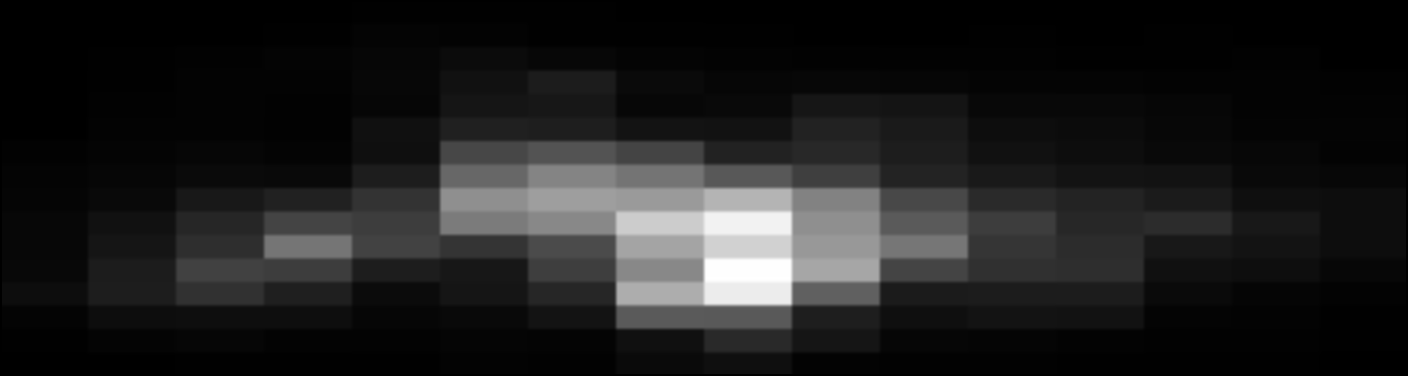
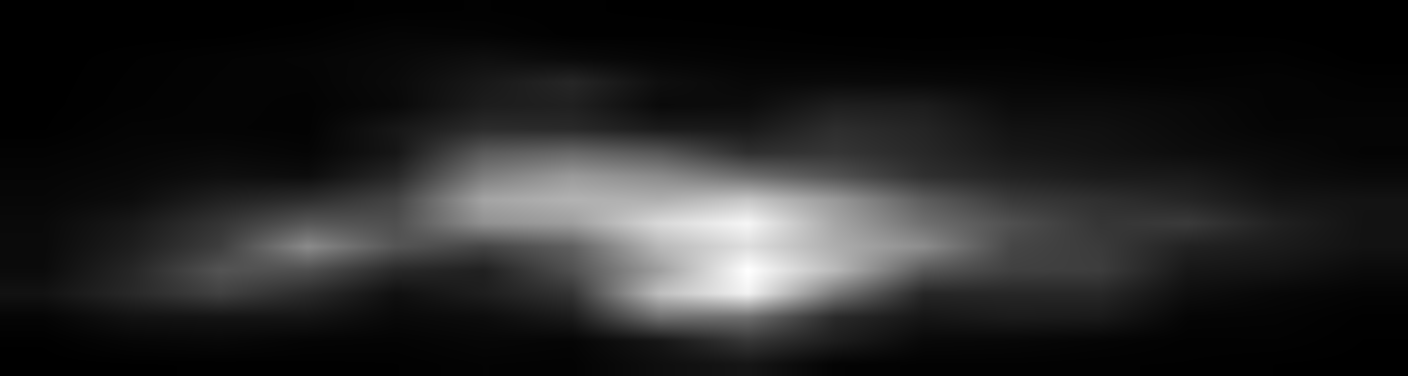
- smoothed pred files - updated generation of pred files - flag to skip already created pred files - count of input, pred, skipped files - logging

diff --git a/gaze_prediction.py b/gaze_prediction.py
@@ -7,6 +7,7 @@ import os
 import argparse
 import time
 import math
+import logging
 
 import torch
 from torch.utils.data import DataLoader
@@ -21,8 +22,8 @@ from kitti360 import Kitti360
 
 
 parser = argparse.ArgumentParser(description='Feature Test')
-parser.add_argument('--data', default='/home/datasets/KITTI-360-low/data_2d_raw/2013_05_28_drive_0009_sync/image_00/data_rect/', metavar='DIR', help='path to dataset')
-parser.add_argument('--features', default='features/data_2d_raw/2013_05_28_drive_0009_sync/image_00/data_rect/', metavar='DIR', help='path to extracted features')
+parser.add_argument('--data', default='/home/datasets/KITTI-360-low/data_2d_raw/2013_05_28_drive_0000_sync/image_00/data_rect/', metavar='DIR', help='path to dataset')
+parser.add_argument('--features', default='features/data_2d_raw/2013_05_28_drive_0000_sync/image_00/data_rect/', metavar='DIR', help='path to extracted features')
 parser.add_argument('--best', default='grid1616_model_best.pth.tar', type=str, metavar='PATH', help='path to best checkpoint (default: none)')
 parser.add_argument('--workers', default=4, type=int, metavar='N',
                     help='number of data loading workers (default: 4)')
@@ -39,104 +40,154 @@ parser.add_argument('--gridheight', default=16, type=int, metavar='N',
                     help='number of rows in grid')
 parser.add_argument('--gridwidth', default=16, type=int, metavar='N',
                     help='number of columns in grid ')
-parser.add_argument('--yolo5bb', default='runs/detect/data_2d_raw/2013_05_28_drive_0009_sync/image_00/data_rect/labels', metavar='DIR', help='path to folder of yolo5 bounding box txt files')
-parser.add_argument('--visualizations', default='outputs/2d_heatmaps/KITTI-360-low/data_2d_raw/2013_05_28_drive_0009_sync/image_00/data_rect/', metavar='DIR', help='path to folder for visalization of predicted gaze maps and target')
+parser.add_argument('--yolo5bb', default='runs/detect/data_2d_raw/2013_05_28_drive_0000_sync/image_00/data_rect/labels', metavar='DIR', help='path to folder of yolo5 bounding box txt files')
+parser.add_argument('--visualizations', default='outputs/2d_heatmaps/KITTI-360-low/data_2d_raw/2013_05_28_drive_0000_sync/image_00/data_rect/', metavar='DIR', help='path to folder for visalization of predicted gaze maps and target')
 parser.add_argument('--threshhold', default=0.5, type=float, metavar='N', help='threshold for object-level evaluation')
 parser.add_argument('--lstm', default=False, action='store_true', help='use lstm module')
 parser.add_argument('--convlstm', default=False, action='store_true', help='use convlstm module')
 parser.add_argument('--sequence', default=6, type=int, metavar='N', help='sequence length for lstm module')
+parser.add_argument('--skip-existing', default=True, action='store_true',
+                    help='skip visualization if pred file already exists')
+
 
 device = torch.device("cuda" if torch.cuda.is_available() else "cpu")
 
+# Initialize logger instance for this file
+logger = logging.getLogger(__name__)
+
+
 def main():
+    logger.info("=== STARTING GAZE EVALUATION LOG ===")
+
     args = parser.parse_args()
 
-    if torch.cuda.is_available():
-        # Fallback to args.gpu if specified, otherwise default to device 0
-        gpu_id = args.gpu if 'args' in locals() and hasattr(args, 'gpu') else 0
-        device = torch.device(f"cuda:{gpu_id}")
-    else:
-        device = torch.device("cpu")
+    try:
+        dim = args.gridwidth * args.gridheight
+        th = 1/dim
 
-    dim = args.gridwidth * args.gridheight
-    th = 1/dim
+        if args.gpu is not None:
+            logger.info("Use GPU: {} for testing".format(args.gpu))
 
-    if args.gpu is not None:
-        print("Use GPU: {} for testing".format(args.gpu))
+        model = network.Net(args.gridheight, args.gridwidth)
 
-    model = network.Net(args.gridheight, args.gridwidth)
+        if args.lstm:
+            model = network.LstmNet(args.gridheight, args.gridwidth)
 
-    if args.lstm:
-        model = network.LstmNet(args.gridheight, args.gridwidth)
+        if args.convlstm:
+            model = network.ConvLSTMNet(args.gridheight, args.gridwidth, args.sequence)
 
-    if args.convlstm:
-        model = network.ConvLSTMNet(args.gridheight, args.gridwidth, args.sequence)
+        if args.gpu is not None:
+            torch.cuda.set_device(args.gpu)
+            model.cuda(args.gpu)
+        
+        testdir = args.data
+        test_dataset = Kitti360("test", testdir, args.features,
+                                th, (args.lstm or args.convlstm), args.sequence)
+        test_loader = torch.utils.data.DataLoader(
+            test_dataset,
+            batch_size=args.batch_size, shuffle=False,
+            num_workers=args.workers, pin_memory=True)
 
-    if args.gpu is not None:
-        torch.cuda.set_device(args.gpu)
-        model.cuda(args.gpu)
+        if args.best:
+            if os.path.isfile(args.best):
+                logger.info("=> loading checkpoint '{}'".format(args.best))
+                checkpoint = torch.load(args.best)
+                args.start_epoch = checkpoint['epoch']
+                model.load_state_dict(checkpoint['state_dict'], False)
+                logger.info("=> loaded checkpoint '{}' (epoch {})"
+                    .format(args.best, checkpoint['epoch']))
+            else:
+                logger.warning("=> no checkpoint found at '{}'".format(args.best))
+
+        test(test_loader, model, args)
+    except Exception as e:
+        logger.exception(f"Unhandled exception in main execution: {e}")
+    finally:
+        # Ensure all handlers flush log messages to the text file before exiting
+        for handler in logging.getLogger().handlers:
+            handler.flush()
     
-    testdir = args.data
-    test_dataset = Kitti360("test", testdir, args.features,
-                             th, (args.lstm or args.convlstm), args.sequence)
-    test_loader = torch.utils.data.DataLoader(
-        test_dataset,
-        batch_size=args.batch_size, shuffle=False,
-        num_workers=args.workers, pin_memory=True)
-
-    if args.best:
-        if os.path.isfile(args.best):
-            print("=> loading checkpoint '{}'".format(args.best))
-            checkpoint = torch.load(args.best)
-            args.start_epoch = checkpoint['epoch']
-            model.load_state_dict(checkpoint['state_dict'], False)
-            print("=> loaded checkpoint '{}' (epoch {})"
-                  .format(args.best, checkpoint['epoch']))
-        else:
-            print("=> no checkpoint found at '{}'".format(args.best))
-
-    test(test_loader, model, args)
-
 
 def test(test_loader, model, args):
     batch_time = AverageMeter()
 
+    # Configure logger to output both to console and a log file
+    log_file_path = os.path.join(args.visualizations, "execution_log.txt")
+    os.makedirs(args.visualizations, exist_ok=True)
+
+    # Single, clean logging setup
+    logging.basicConfig(
+        level=logging.INFO,
+        format='%(asctime)s [%(levelname)s] %(message)s',
+        handlers=[
+            logging.FileHandler(log_file_path, mode='a'),
+            logging.StreamHandler()
+        ],
+        force=True  # Overrides any existing logger setups from PyTorch/Torchvision
+    )
+
+    logger = logging.getLogger(__name__)
+
     model.eval()
-
-    all_count = 0
-
-    hm_max_values = []
 
     i = 0
 
-    heightfactor = 376 // args.gridheight
-    widthfactor = 1408 // args.gridwidth
-
     smoothing = GaussianSmoothing(1, 5, 1).to(device)
+
+    total_input_images = 0
+    total_saved_preds = 0
 
     with torch.no_grad():
         end = time.time()
         for i, (input, img_names) in enumerate(test_loader):
+
+            # Track batch input count
+            batch_input_count = len(img_names)
+            total_input_images += batch_input_count
+
+            if args.skip_existing:
+                # Filter out images that already have pred files
+                new_input = []
+                new_img_names = []
+
+                for j, img_name in enumerate(img_names):
+                    pred_path = os.path.join(args.visualizations, f"{img_name}_pred.png")
+                    if os.path.exists(pred_path):
+                        logger.info(f"[SKIP] {img_name} already visualized")
+                    else:
+                        new_input.append(input[j])
+                        new_img_names.append(img_name)
+
+                # If all images in this batch are already done → skip entire batch
+                if len(new_input) == 0:
+                    continue
+
+                # Rebuild batch
+                input = torch.stack(new_input)
+                img_names = new_img_names
+            
             if args.gpu is not None:
                 input = input.cuda(args.gpu, non_blocking=True)
 
             # compute output
             output = model(input)
-
             output = torch.sigmoid(output)
 
-            heatmap = grid2heatmap(output, [heightfactor, widthfactor], [args.gridheight, args.gridwidth])
+            # Reshape 1D grid directly to 2D low-res feature map (e.g., 16x16)
+            heatmap = output.view(-1, 1, args.gridheight, args.gridwidth)
+
+            # Smoothly upsample directly to target KITTI-360 resolution
             heatmap = F.interpolate(heatmap, size=[376, 1408], mode='bilinear', align_corners=False)
+
+            # Smooth borders gracefully without hard constant padding
             heatmap = smoothing(heatmap)
-            heatmap = F.pad(heatmap, (2, 2, 2, 2), mode='constant')
-            heatmap = heatmap.view(heatmap.size(0), -1)
-            heatmap = F.softmax(heatmap, dim=1)
 
-            # normalize
-            heatmap -= heatmap.min(1, keepdim=True)[0]
-            heatmap /= heatmap.max(1, keepdim=True)[0]
+            # Min-Max Normalization safely avoiding division by zero
+            min_v = heatmap.amin(dim=(1, 2, 3), keepdim=True)
+            max_v = heatmap.amax(dim=(1, 2, 3), keepdim=True)
+            heatmap = (heatmap - min_v) / (max_v - min_v + 1e-8)
 
-            heatmap = heatmap.view(-1, 1, 376, 1408)
+            batch_saved_count = 0
 
             for j in range(heatmap.size(0)):
                 img_name = img_names[j]
@@ -149,87 +200,35 @@ def test(test_loader, model, args):
                 if os.path.exists(filename):
                     with open(filename) as f:
 
-                        for linestring in f:
-                            all_count += 1
+                        if heatmap_img is None or heatmap_img.numel() == 0:
+                            logger.warning(f"[WARN] Empty heatmap for {filename}")
 
-                            line = linestring.split()
-
-                            width = float(line[3])
-                            height = float(line[4])
-                            x_center = float(line[1])
-                            y_center = float(line[2])
-
-                            x_min, x_max, y_min, y_max = bb_mapping(x_center, y_center, width, height)
-
-                            # find maximum pixel value within object bounding box
-                            heatmap_obj = heatmap_img[0, y_min : y_max + 1, x_min : x_max + 1]
-                            heatmap_obj_max = torch.max(heatmap_obj)
-
-                            # object is recognized if maximum pixel value is higher than th
-                            hm_obj_recogn = heatmap_obj_max > args.threshhold
-
-                            hm_max_values.append(heatmap_obj_max)
-
+                    try:
                         visualization(heatmap_img.cpu(), args.visualizations, img_name)
+                        batch_saved_count += 1
+                        total_saved_preds += 1
+                    except Exception as e:
+                        logger.error(f"[ERROR] Failed to save {filename}: {e}")
+                else:
+                    logger.warning(f"[WARN] No YOLO bounding box file for {filename}")    
 
             # measure elapsed time
             batch_time.update(time.time() - end)
             end = time.time()
 
             if i % args.print_freq == 0:
-                print('Test: [{0}/{1}]\t'
-                      'Time {batch_time.val:.3f} ({batch_time.avg:.3f})\t'
-                      .format(
-                       i, len(test_loader), batch_time=batch_time))
+                logger.info(
+                    f"Test: [{i}/{len(test_loader)}]\t"
+                    f"Time {batch_time.val:.3f} ({batch_time.avg:.3f})\t"
+                    f"Batch Inputs: {batch_input_count} | Saved _pred: {batch_saved_count}"
+                )
 
-        print('Test: [{0}/{1}]\t'
-              'Time {batch_time.val:.3f} ({batch_time.avg:.3f})\t'
-              .format(
-               i, len(test_loader), batch_time=batch_time))
-
-
-def bb_mapping(x_center_rel, y_center_rel, width_rel, height_rel, img_width = 1408, img_height = 376):
-    """
-    Compute absolute bounding boxes values for given image size and given relative parameters
-
-    :param x_center_rel: relative x value of bb center
-    :param y_center_rel: relative y value of bb center
-    :param width_rel: relative width
-    :param height_rel: relative height
-    :return: absolute values of bb borders
-    """
-    width_abs = width_rel * img_width
-    height_abs = height_rel * img_height
-    x_center_abs = x_center_rel * img_width
-    y_center_abs = y_center_rel * img_height
-    x_min = int(math.floor(x_center_abs - 0.5 * width_abs))
-    x_max = int(math.floor(x_center_abs + 0.5 * width_abs))
-    y_min = int(math.floor(y_center_abs - 0.5 * height_abs))
-    y_max = int(math.floor(y_center_abs + 0.5 * height_abs))
-    bb = [x if x >= 0 else 0 for x in [x_min, x_max, y_min, y_max]]
-    return bb
-
-
-def grid2heatmap(grid, size, num_grid):
-    """
-    Rearrange and expand gridvector of size (gridheight * gridwidth) to size (376 x 1408) by duplicating values
-
-    :param grid: output vector
-    :param size: (H, W) of one expanded grid cell
-    :param num_grids: (H, W) = grid dimension
-    :return: 2D grid of size (376 x 1408)
-    """
-    new_heatmap = torch.zeros(grid.size(0), size[0] * num_grid[0], size[1] * num_grid[1])
-    for i, item in enumerate(grid):
-        idx = torch.nonzero(item)
-        if idx.nelement() == 0:
-            print('Empty')
-            continue
-        for x in idx:
-            new_heatmap[i, x // num_grid[1] * size[0] : (x // num_grid[1] + 1) * size[0], x % num_grid[1] * size[1] : (x % num_grid[1] + 1) * size[1]] = item[x]
-    output = new_heatmap.unsqueeze(1).to(device)
-
-    return output
+        logger.info("=" * 50)
+        logger.info(f"PROCESSING SUMMARY:")
+        logger.info(f"Total Input Images Processed: {total_input_images}")
+        logger.info(f"Total _pred Files Saved:     {total_saved_preds}")
+        logger.info(f"Failed / Skipped Files:       {total_input_images - total_saved_preds}")
+        logger.info("=" * 50)
 
 
 def visualization(heatmap, path, nr):
@@ -287,8 +286,7 @@ class GaussianSmoothing(nn.Module):
         )
         for size, std, mgrid in zip(kernel_size, sigma, meshgrids):
             mean = (size - 1) / 2
-            kernel *= 1 / (std * math.sqrt(2 * math.pi)) * \
-                      torch.exp(-((mgrid - mean) / (2 * std)) ** 2)
+            kernel *= 1 / (std * math.sqrt(2 * math.pi)) * torch.exp(-0.5 * ((mgrid - mean) / std) ** 2)
 
         # Make sure sum of values in gaussian kernel equals 1.
         kernel = kernel / torch.sum(kernel)
@@ -319,7 +317,11 @@ class GaussianSmoothing(nn.Module):
         Returns:
             filtered (torch.Tensor): Filtered output.
         """
-        return self.conv(input, weight=self.weight, groups=self.groups)
+        # Calculate padding to keep output same size as input
+        pad_h = (self.weight.shape[2] - 1) // 2
+        pad_w = (self.weight.shape[3] - 1) // 2
+        input_padded = F.pad(input, (pad_w, pad_w, pad_h, pad_h), mode='reflect')
+        return self.conv(input_padded, weight=self.weight, groups=self.groups)
 
 
 if __name__ == '__main__':
